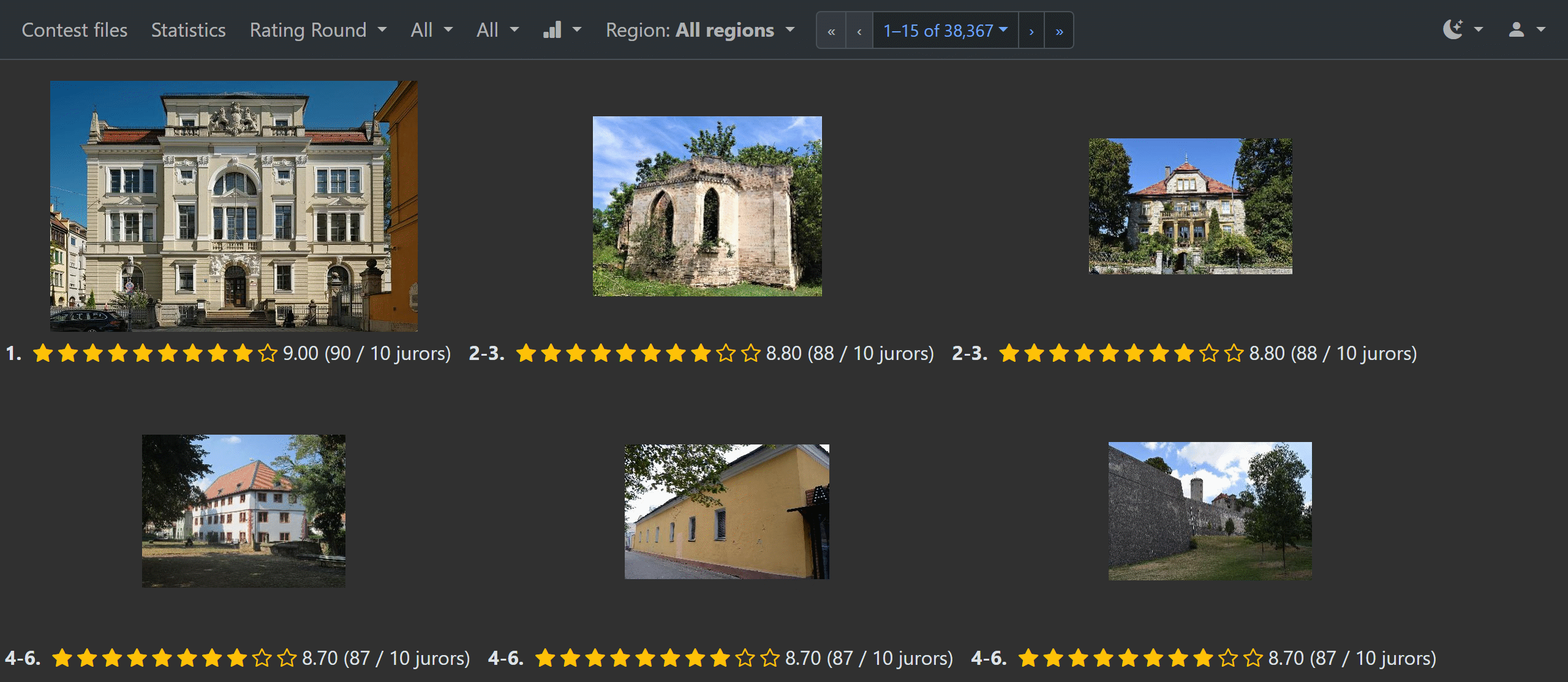
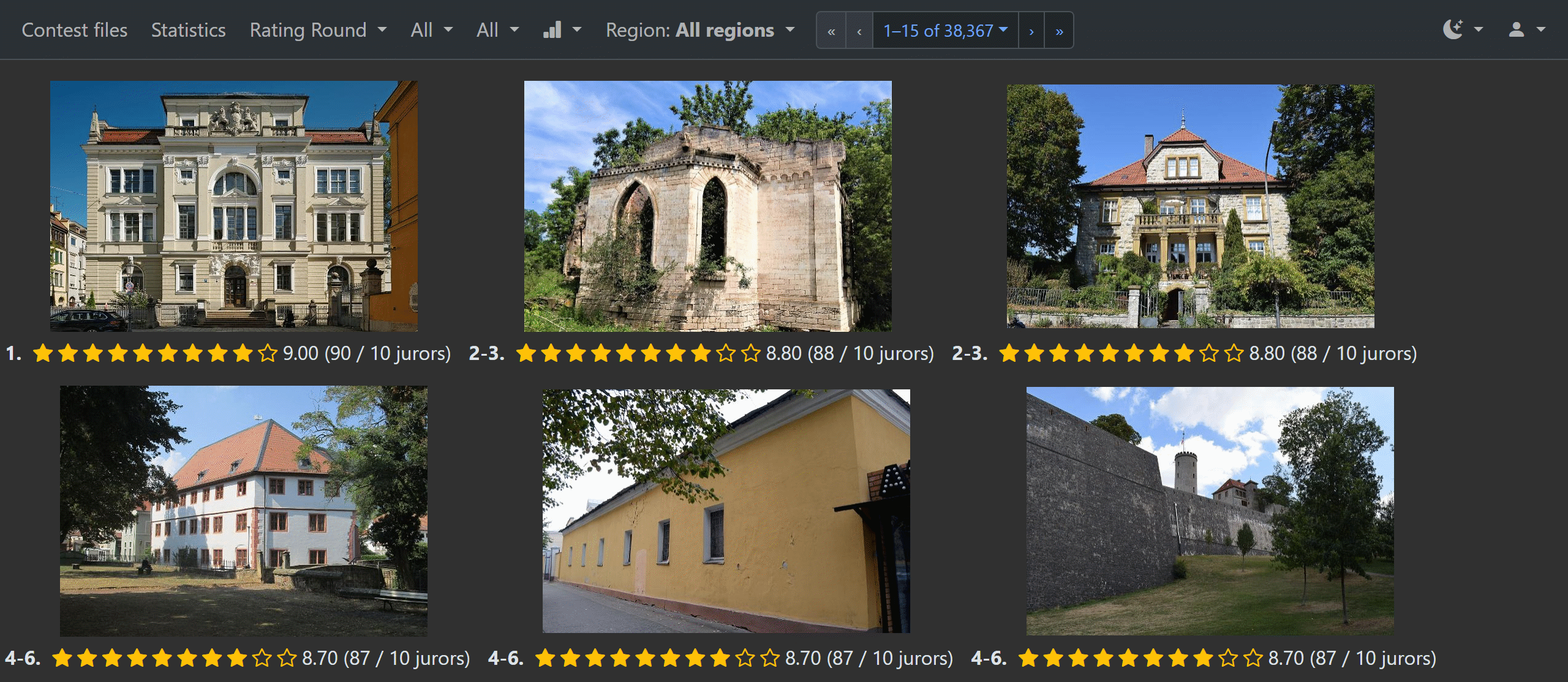
Docs shots: even tiles, centred forms cropped to their form, whole large views
The docs-mode server stores each file's width and height as its photo's, so thumbnails are
even; the profile, user-edit, share-link and score-rule forms are centred and cropped to the
form, and the large views end below the comment box instead of cutting the photo. Image
widths in the guides follow the new sizes. WebKit CI fix in organizer.spec.js.

diff --git a/browser-test/tests/docs-screenshots.spec.js b/browser-test/tests/docs-screenshots.spec.js
@@ -71,7 +71,7 @@ test.describe('the guides\' screenshots', () => {
   });
   // `height`: only the top of the viewport (the rest of such a page is empty)
   const top = (page, file, height, width = VIEWPORT.width) =>
-    page.screenshot({ path: file, clip: { x: 0, y: 0, width, height } });
+    page.screenshot({ path: file, fullPage: true, clip: { x: 0, y: 0, width, height } });
 
   /** The page height that ends below the `n`th row of the gallery's tiles (with a margin), so
     * that no crop cuts through a photo. */
@@ -102,7 +102,14 @@ test.describe('the guides\' screenshots', () => {
     return Math.ceil(row.bottom + window.scrollY) + 2;
   }, n);
 
-  async function shot(contextAs, role, target, name, { full = false, prepare, crop, height, width, rows, tableRows } = {}) {
+  /** The page height that ends below the large view's "Submit comment" button, so that the
+    * photo and the comment box show whole. */
+  const belowComment = (page) => page.evaluate(() => {
+    const button = document.getElementById('saySomething'); // the "Submit comment" input
+    return Math.ceil(button.getBoundingClientRect().bottom + window.scrollY) + 16;
+  });
+
+  async function shot(contextAs, role, target, name, { full = false, prepare, crop, height, width, rows, tableRows, comment } = {}) {
     const context = await contextAs(role);
     await context.addCookies([{ name: 'theme', value: 'dark', url: baseUrl }]);
     const page = await sized(context);
@@ -133,6 +140,7 @@ test.describe('the guides\' screenshots', () => {
         clip: { x, y: Math.max(0, topEdge - 12), width: Math.min(VIEWPORT.width - x, right - x + 12), height: bottom - Math.max(0, topEdge - 12) + 12 } });
     } else if (rows) await top(page, file, await belowRows(page, rows), width);
     else if (tableRows) await top(page, file, await belowTableRow(page, tableRows), width);
+    else if (comment) await top(page, file, await belowComment(page), width);
     else if (height) await top(page, file, height, width);
     else {
       // a whole page ends with a margin, so that its last button isn't cut at the edge
@@ -148,9 +156,9 @@ test.describe('the guides\' screenshots', () => {
     await shot(contextAs, 'juror', galleryPath(fixture.roundBinaryId, juror.id), 'juror-gallery-binary', { rows: 1 });
     await shot(contextAs, 'juror', galleryPath(fixture.roundRatingId, juror.id), 'juror-gallery-rated', { rows: 1 });
     await shot(contextAs, 'juror', galleryPath(fixture.roundBinaryId, juror.id), 'juror-gallery-top-bar', { height: 56 });
-    await shot(contextAs, 'juror', largePath(fixture.roundBinaryId, juror.id, juror.pageId), 'juror-large-view-binary', { height: 520 });
+    await shot(contextAs, 'juror', largePath(fixture.roundBinaryId, juror.id, juror.pageId), 'juror-large-view-binary', { comment: true });
     await shot(contextAs, 'juror', largePath(fixture.roundRatingId, juror.id, juror.ratedPageId), 'juror-large-view-rated', {
-      height: 520,
+      comment: true,
       // a plain star rate in a round without the worst mark, as the guide describes. The
       // worst-mark test undoes its vote, so this holds on a rerun too; a safety net if that
       // undo failed: start the docs-mode server afresh
@@ -158,7 +166,7 @@ test.describe('the guides\' screenshots', () => {
         await expect(page.locator('.bi-x-lg'), 'no worst-mark icon on the rated shot: restart the docs-mode server').toHaveCount(0);
       },
     });
-    await shot(contextAs, 'juror', `/users/edit/${juror.id}`, 'juror-profile', { full: true });
+    await shot(contextAs, 'juror', `/users/edit/${juror.id}`, 'juror-profile', { crop: '#edit-user' });
   });
 
   test('organizer pages', async ({ contextAs, fixture }) => {
@@ -200,7 +208,7 @@ test.describe('the guides\' screenshots', () => {
       },
     });
     await shot(contextAs, 'admin', `/contest/${contest}/images`, 'organizer-contest-images', { full: true });
-    await shot(contextAs, 'admin', `/users/edit/${fixture.accounts.juror.id}?contestId=${contest}`, 'admin-user-edit', { full: true });
+    await shot(contextAs, 'admin', `/users/edit/${fixture.accounts.juror.id}?contestId=${contest}`, 'admin-user-edit', { crop: '#edit-user' });
 
     // a pending invitation: invite one address (once; a second run finds it)
     const context = await contextAs('admin');
@@ -234,9 +242,14 @@ test.describe('the guides\' screenshots', () => {
     await page.locator('input[value*="/invitation/"]').evaluateAll((inputs) => inputs.forEach((input) => {
       input.value = input.value.replace(/^https?:\/\/[^/]+/, 'https://jury.example.org');
     }));
-    // down to the end of the warning, so that the button after it isn't cut
-    const warning = await page.locator('.alert').last().boundingBox();
-    await top(page, path.join(OUT_DIR, 'admin-share-link.png'), Math.ceil(warning.y + warning.height) + 16);
+    // the centred section only, from its heading down to the end of the warning (the button
+    // after it isn't shown, so nothing is cut)
+    const section = await page.locator('#share-link').boundingBox();
+    const warning = await page.locator('#share-link .alert').last().boundingBox();
+    expect(section && warning, 'the section and its warning are shown').toBeTruthy();
+    const shareTop = Math.max(0, section.y - 12);
+    await page.screenshot({ path: path.join(OUT_DIR, 'admin-share-link.png'),
+      clip: { x: section.x - 12, y: shareTop, width: section.width + 24, height: Math.ceil(warning.y + warning.height) + 16 - shareTop } });
     await context.close();
     await shot(contextAs, null, invitationPath, 'juror-set-password', { height: 440 });
   });
@@ -279,7 +292,8 @@ test.describe('the guides\' screenshots', () => {
     const scrollY = await page.evaluate(() => window.scrollY);
     const y = Math.max(0, from.y + scrollY - 12);
     await page.screenshot({ path: path.join(OUT_DIR, 'organizer-score-rule-warning.png'), fullPage: true,
-      clip: { x: 0, y, width: VIEWPORT.width, height: to.y + scrollY + to.height + 12 - y } });
+      // the centred form's width (the rows span it), with a margin
+      clip: { x: Math.max(0, from.x - 12), y, width: from.width + 24, height: to.y + scrollY + to.height + 12 - y } });
     await context.close(); // not saved
   });
 
@@ -322,7 +336,7 @@ test.describe('the guides\' screenshots', () => {
       await view.goto(filePath);
       await expect(view.getByRole('button', { name: /Clear the vote/ }).first()).toBeVisible();
       await view.waitForLoadState('networkidle');
-      await top(view, path.join(OUT_DIR, 'juror-large-view-worst-mark.png'), 520);
+      await top(view, path.join(OUT_DIR, 'juror-large-view-worst-mark.png'), await belowComment(view));
     } finally {
       try {
         if (voted) {

diff --git a/browser-test/tests/organizer.spec.js b/browser-test/tests/organizer.spec.js
@@ -110,13 +110,15 @@ test.describe('root', () => {
       await expect(dropdown).toBeVisible();
       await expect(dropdown.locator('.option')).toHaveCount(titles.length);
       expect(await page.locator('.table-responsive .ts-dropdown').count()).toBe(0);
-      // under the field, at its left edge, and still there after the page scrolls
+      // under the field, at its left edge, and still there after the page scrolls (null if the
+      // list or its field has no box)
       const place = async () => {
         const [c, d] = [await control.locator('xpath=ancestor::div[contains(@class,"ts-control")][1]').boundingBox(),
           await dropdown.boundingBox()];
-        return { below: d.y - (c.y + c.height), left: d.x - c.x };
+        return c && d ? { below: d.y - (c.y + c.height), left: d.x - c.x } : null;
       };
       const before = await place();
+      expect(before, 'the open list and its field have boxes').not.toBeNull();
       expect(before.below).toBeGreaterThanOrEqual(0);
       expect(before.below).toBeLessThan(12);
       expect(Math.abs(before.left)).toBeLessThan(2);
@@ -144,6 +146,33 @@ test.describe('root', () => {
       // label and Tom Select's hidden input, and the open list fits under the field
       const pageFits = () => page.evaluate(() => document.documentElement.scrollWidth <= document.documentElement.clientWidth);
       const box = page.locator('.table-responsive').filter({ has: page.locator('#images') });
+      // the box, the field (Tom Select's wrapper, which category-suggest.js measures), its
+      // control and the list (null when closed), read in one turn of the page's script, so that
+      // nothing moves or closes between the reads
+      const boxState = () => box.evaluate((el) => {
+        const rect = (e) => {
+          const b = e.getBoundingClientRect();
+          return { left: b.left, right: b.right, top: b.top, bottom: b.bottom };
+        };
+        const wrapper = el.querySelector('#images-ts-control').closest('.ts-wrapper');
+        const list = document.querySelector('body > .ts-dropdown');
+        const open = !!list && getComputedStyle(list).display !== 'none' && list.getBoundingClientRect().height > 0;
+        return { visible: rect(el), field: rect(wrapper), control: rect(wrapper.querySelector('.ts-control')),
+          list: open ? rect(list) : null };
+      });
+      // category-suggest.js's rule: the whole field in the box's view (a pixel's slack), or the
+      // left edge of a field wider than the box
+      const fieldInView = ({ visible, field }) => {
+        const leftIn = field.left >= visible.left - 1 && field.left <= visible.right;
+        if (field.right - field.left > visible.right - visible.left) return leftIn;
+        return field.left >= visible.left - 1 && field.right <= visible.right + 1;
+      };
+      // what the list should do after a box scroll, and what it does
+      const followState = (s) => {
+        if (!fieldInView(s)) return s.list === null ? 'closed' : 'open, its field out of view';
+        if (s.list === null) return 'closed, its field in view';
+        return Math.abs(s.list.left - s.control.left) < 3 ? 'under the field' : 'not under the field';
+      };
       for (const by of [60, -60, 200, -200]) {
         await control.fill('Category:Wiki'); // scrolls the box to the field, and opens the list
         await expect(dropdown).toBeVisible();
@@ -155,10 +184,14 @@ test.describe('root', () => {
           return el.scrollLeft - start;
         }, by);
         if (moved === 0) continue; // already at that end of the box
-        // either closed, or under the field at its left edge
-        await expect.poll(async () => !(await dropdown.isVisible()) || Math.abs((await place()).left) < 3,
-          `after the box scrolled by ${moved}`).toBe(true);
-        if (await dropdown.isVisible()) expect((await place()).below).toBeGreaterThanOrEqual(0);
+        // under the field at its left edge while the field is in view, closed once it isn't (the
+        // box's scroll event, and so the list's move, can come a frame after the scroll: polled)
+        await expect.poll(async () => {
+          const state = followState(await boxState());
+          return state === 'closed' || state === 'under the field' ? 'as expected' : state;
+        }, `after the box scrolled by ${moved}`).toBe('as expected');
+        const after = await boxState();
+        if (after.list) expect(after.list.top - after.control.bottom).toBeGreaterThanOrEqual(0);
         expect(await pageFits(), `after the box scrolled by ${moved}`).toBe(true);
         await control.press('Escape');
       }

diff --git a/app/views/shareLink.scala.html b/app/views/shareLink.scala.html
@@ -15,7 +15,7 @@
 }
 
 @mainAdmin("share.link.title", user, user.getId, contestId = contestId, head = pageScripts) {
-    <div class="row">
+    <div class="row justify-content-center">
         <section class="col-md-8 col-lg-7" id="share-link" aria-labelledby="share-link-title">
             <h1 class="h3" id="share-link-title">@Messages("share.link.title")</h1>
             <p>@Messages("share.link.for", if (account.fullname.trim.nonEmpty) account.fullname else account.email)

diff --git a/app/views/editUser.scala.html b/app/views/editUser.scala.html
@@ -26,8 +26,9 @@
 }
 
 @mainAdmin("edit.user", user, user.getId, contestId = contestId, head = pageScripts) {
-    <div class="row" >
-        <div class="col-md-4">
+    @* centred: alone, the form's column is a third of the page (the user guides' shots crop to it) *@
+    <div class="row justify-content-center">
+        <div class="col-md-4" id="edit-user">
 
 
             @if(!editUserForm("id").value.contains("0")) {

diff --git a/app/views/editRound.scala.html b/app/views/editRound.scala.html
@@ -32,7 +32,7 @@
     <script type="application/json" id="round-form-texts">{"multiSelect": @views.JsTexts.multiSelect, "distribution": @views.JsTexts(
         "all" -> Messages("each.file.to.all.jurors"),
         "some" -> Messages("each.file.to.i.juror.s", "$X"))}</script>
-    <div class="row" >
+    <div class="row justify-content-center">
         <div class="col-md-8">
 
 

diff --git a/docs/user/images/README.md b/docs/user/images/README.md
@@ -10,11 +10,13 @@ The fixture's files carry real Commons file names and authors, so the spec repla
 numbered examples before each shot, and the link to share shows a neutral host.
 
 **Platform of the current set:** Windows 11 Pro (10.0.26200), Playwright 1.64.1 with its bundled
-Chromium (156), the app's own font stack, 2026-11-05. Text rendering depends on the operating
+Chromium (156), the app's own font stack, 2026-11-10. Text rendering depends on the operating
 system, so regenerate all the images together on one platform and update this line.
 
-**Size:** 24 images, about 3.5 MB in all; the largest is `juror-gallery-binary.png`, about 680 KB
-(photo shots may reach about 900 KB; the others stay small). Photos make 2x PNGs large, so
+**Size:** 24 images, about 7.1 MB in all. The three large views are the largest, about 1.25 MB
+each (a whole photo, shown at the width of the page, with the comment box), then the by-rate
+results (about 1.0 MB) and the two galleries (up to about 780 KB); the others stay small. The
+profile, user-edit, share-link and score-rule shots are cropped to their forms. Photos make 2x PNGs large, so
 `browser-test/docs-optimize-png.py` reduces each image to a 256-colour palette after the spec
 (dithered where there are photos, so that skies show no bands), and the shots of galleries and
 results show only the top of the page; the device scale stays 2.
@@ -45,7 +47,10 @@ bad files. The photos are never committed, only the screenshots.
 
 The fixture's image stub, in its docs mode, serves them: a file name always maps to the same photo
 for the same choice of lists (`gatling.setup.DocsPhotos`, by file order), and about one file in
-four gets a degraded one, never in the top rows of the shots. The file names shown on the shots are numbered examples ("Example photo N", "Author N"),
+four gets a degraded one, never in the top rows of the shots. The server also stores each file's
+width and height as its photo's (the fixture's are its Commons original's), since the pages size
+thumbnails from them: otherwise a landscape photo standing in for a portrait file would show
+narrow and short. The file names shown on the shots are numbered examples ("Example photo N", "Author N"),
 which the spec writes.
 
 ## Regenerating the shots

diff --git a/docs/user/admin-guide.md b/docs/user/admin-guide.md
@@ -120,7 +120,7 @@ An account that also works in other contests can't be changed by an admin of one
 admin may change the person's role in their own contest only, unless they administer all of its
 contests. Nobody sets another person's password: see [Passwords](#a-passwords).
 
-<img src="images/admin-user-edit.png" alt="The Edit user page of a member, with the role and the set-password links" width="1280">
+<img src="images/admin-user-edit.png" alt="The Edit user page of a member, with the role and the set-password links" width="450">
 
 <a id="a-invitations"></a>
 ## Invitations
@@ -199,7 +199,7 @@ again.
 Treat the link like a password: anyone who has it can set the account's password until it is
 used. Pass it on to the person only, and not in a public place.
 
-<img src="images/admin-share-link.png" alt="The page that shows a link to share once, with its Copy button" width="1280">
+<img src="images/admin-share-link.png" alt="The page that shows a link to share once, with its Copy button" width="770">
 
 <a id="a-greeting"></a>
 ### The greeting

diff --git a/docs/user/organizer-guide.md b/docs/user/organizer-guide.md
@@ -257,7 +257,7 @@ the round has votes and you pick another rule. The warning says that:
 - the later rounds that took their minimum score from this round are named. Their
   files don't change, but a later **Distribute new files** there uses the new rule.
 
-<img src="images/organizer-score-rule-warning.png" alt="The file score option and its warning" width="1280">
+<img src="images/organizer-score-rule-warning.png" alt="The file score option and its warning" width="877">
 
 <a id="o-worst-mark"></a>
 ### The worst mark

diff --git a/docs/user/juror-guide.md b/docs/user/juror-guide.md
@@ -107,7 +107,7 @@ To sign out on every computer and browser at once, open your **Profile** and pre
 everywhere** under **Sessions**. Changing your password does this too, except in the browser
 you changed it in.
 
-<img src="images/juror-profile.png" alt="The profile page, with its theme and sessions" width="1280">
+<img src="images/juror-profile.png" alt="The profile page, with its theme and sessions" width="450">
 
 ## Finding your rounds
 
